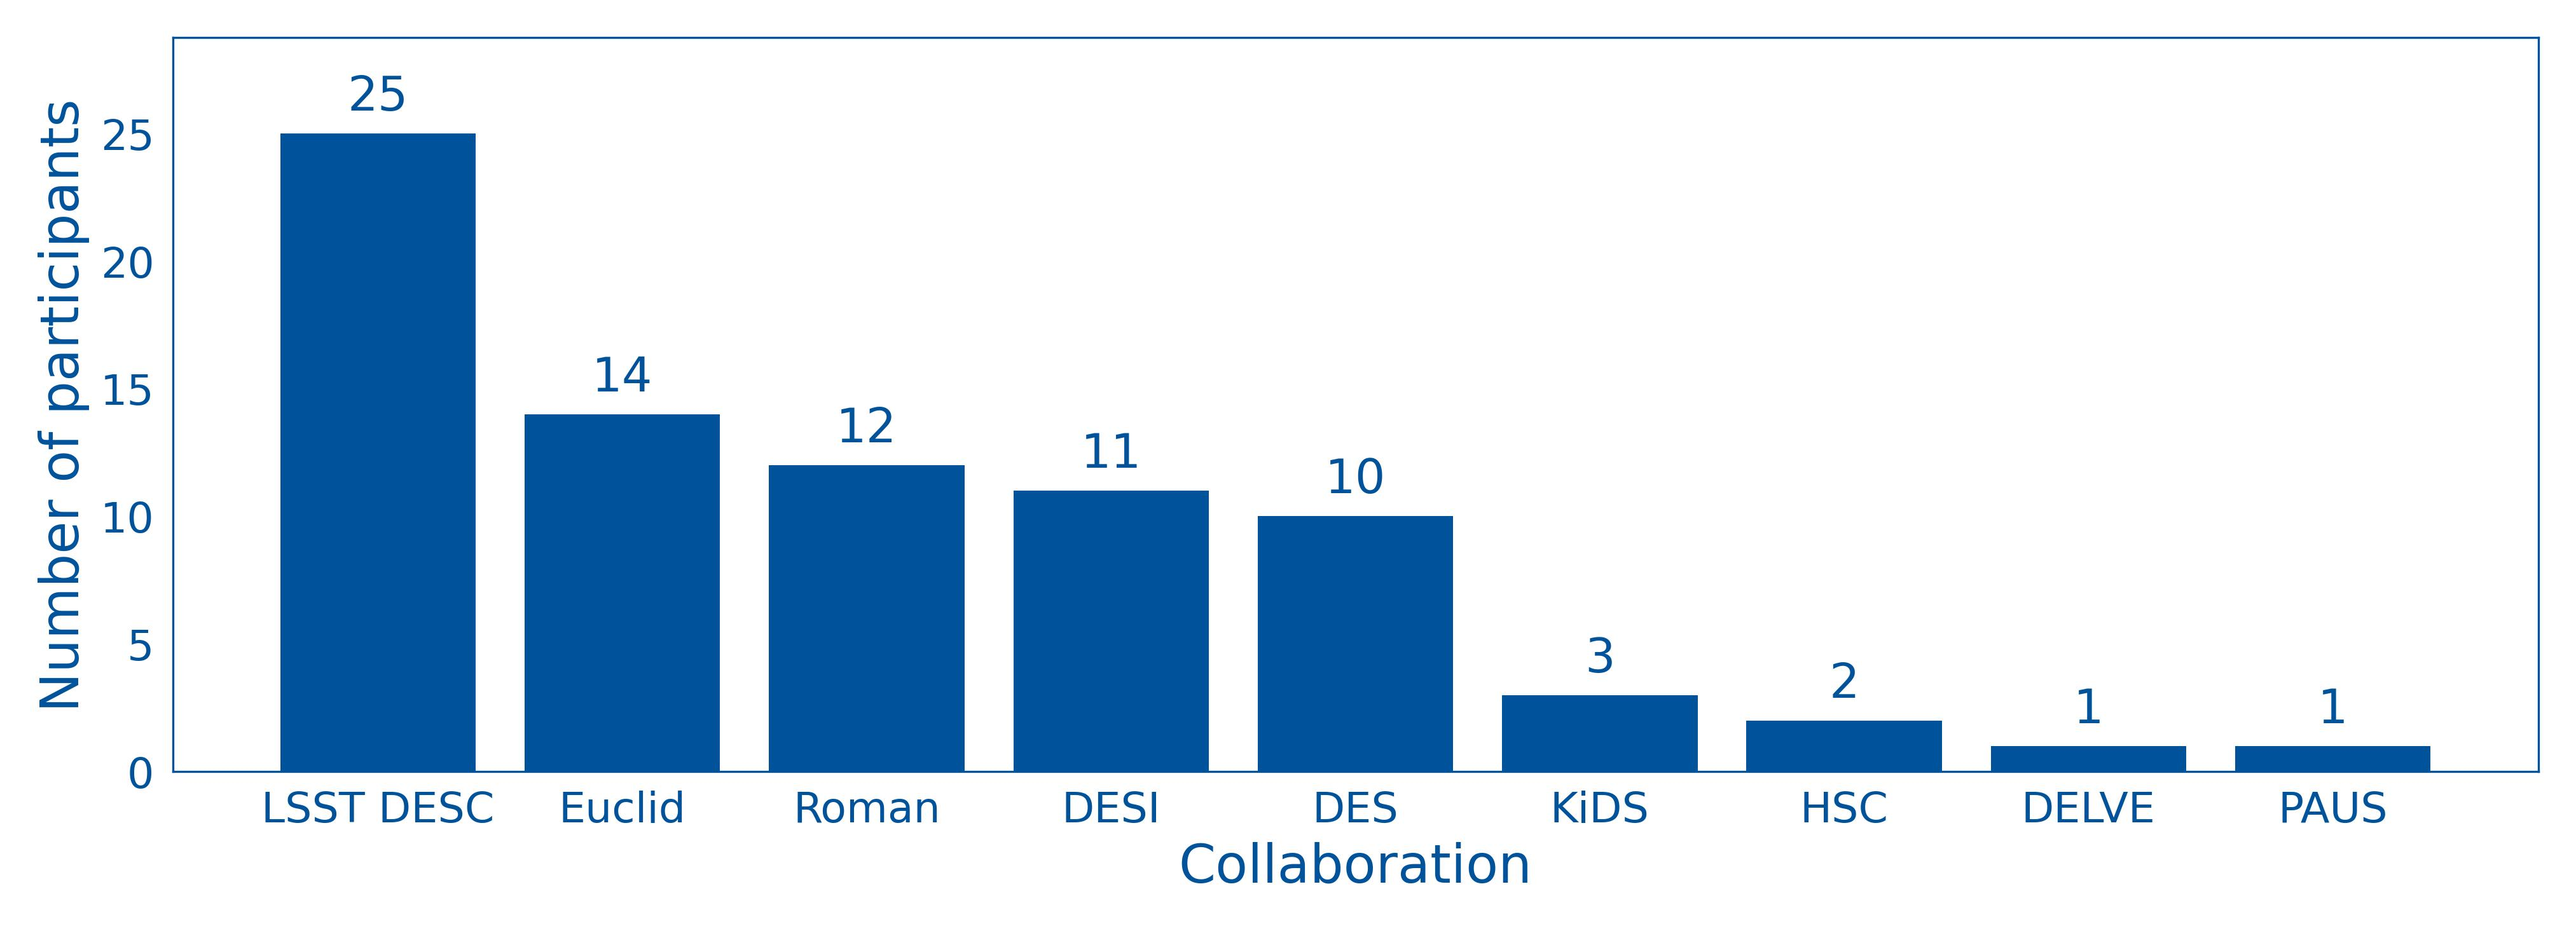
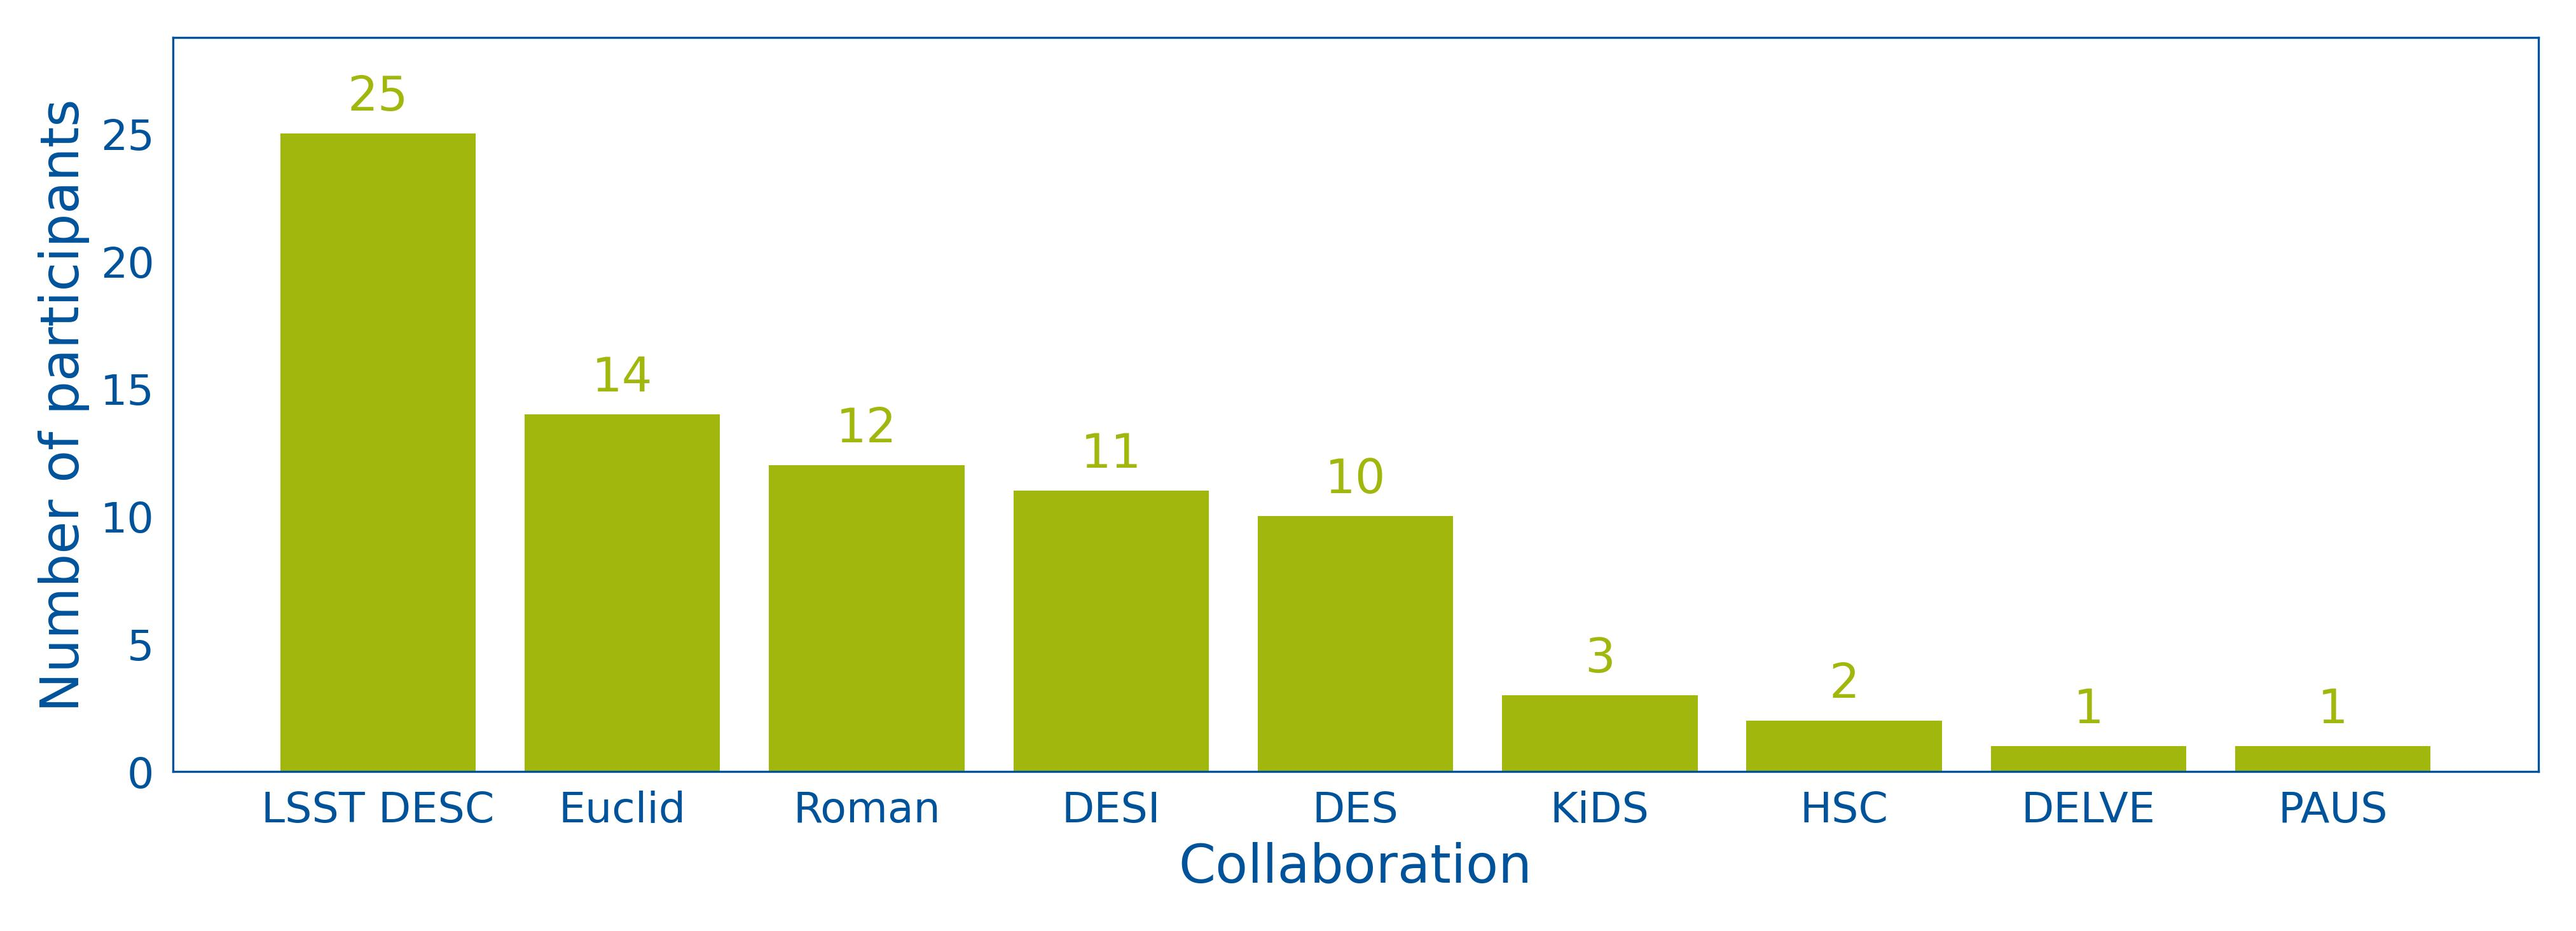
testing table tuning

Changed region(s): [[0.0933, 0.0614, 0.9642, 0.8294], [0.4977, 0.4915, 0.5599, 0.5222], [0.4043, 0.4608, 0.4354, 0.4915]]

diff --git a/docs/_layouts/default.html b/docs/_layouts/default.html
@@ -142,6 +142,38 @@
       border-color: rgba(255,255,255,0.3) !important;
     }
 
+    /* Focus pill in the day header */
+.schedule-focus {
+  font-weight: 600;
+}
+
+/* Make sure *our* colored backgrounds beat theme defaults */
+main#content table.schedule-table.day-observations,
+main#content table.schedule-table.day-theory,
+main#content table.schedule-table.day-sims,
+main#content table.schedule-table.day-hack {
+  background-color: inherit !important; /* allow the class to drive bg */
+}
+
+main#content table.schedule-table.day-observations { background-color: var(--piedmont) !important; }
+main#content table.schedule-table.day-theory       { background-color: var(--duke) !important; }
+main#content table.schedule-table.day-sims         { background-color: var(--persimmon) !important; }
+main#content table.schedule-table.day-hack         { background-color: #993399 !important; }
+
+/* Cells keep white text + transparent cell bg so table bg shows through */
+main#content table.schedule-table.day-observations th,
+main#content table.schedule-table.day-observations td,
+main#content table.schedule-table.day-theory th,
+main#content table.schedule-table.day-theory td,
+main#content table.schedule-table.day-sims th,
+main#content table.schedule-table.day-sims td,
+main#content table.schedule-table.day-hack th,
+main#content table.schedule-table.day-hack td {
+  background-color: transparent !important;
+  color: var(--white) !important;
+  border-color: rgba(255,255,255,0.3) !important;
+}
+
     /* ----- MAIN CONTENT ----- */
     main#content {
       max-width: 900px;

diff --git a/docs/schedule.md b/docs/schedule.md
@@ -28,7 +28,8 @@ All times are in EDT and the in-person location is the Center for Health Educati
 <br>
 
 ---
-<h2 id="monday" class="schedule-day day-observations">Monday</h2>
+
+<h2 id="monday" class="schedule-day day-observations">Monday — <span class="schedule-focus">Focus: Observations</span></h2>
 <table class="schedule-table day-observations">
   <thead>
     <tr>
@@ -40,7 +41,7 @@ All times are in EDT and the in-person location is the Center for Health Educati
   </tbody>
 </table>
 
-<h2 id="tuesday" class="schedule-day day-theory">Tuesday</h2>
+<h2 id="tuesday" class="schedule-day day-theory">Tuesday — <span class="schedule-focus">Focus: Modeling</span></h2>
 <table class="schedule-table day-theory">
   <thead>
     <tr>
@@ -52,7 +53,7 @@ All times are in EDT and the in-person location is the Center for Health Educati
   </tbody>
 </table>
 
-<h2 id="wednesday" class="schedule-day day-sims">Wednesday</h2>
+<h2 id="wednesday" class="schedule-day day-sims">Wednesday — <span class="schedule-focus">Focus: Simulations</span></h2>
 <table class="schedule-table day-sims">
   <thead>
     <tr>
@@ -64,7 +65,7 @@ All times are in EDT and the in-person location is the Center for Health Educati
   </tbody>
 </table>
 
-<h2 id="thursday" class="schedule-day day-hack">Thursday</h2>
+<h2 id="thursday" class="schedule-day day-hack">Thursday — <span class="schedule-focus">Focus: Hack Day</span></h2>
 <table class="schedule-table day-hack">
   <thead>
     <tr>
@@ -76,7 +77,7 @@ All times are in EDT and the in-person location is the Center for Health Educati
   </tbody>
 </table>
 
-<h2 id="friday" class="schedule-day day-hack">Friday</h2>
+<h2 id="friday" class="schedule-day day-hack">Friday — <span class="schedule-focus">Focus: Hack Day</span></h2>
 <table class="schedule-table day-hack">
   <thead>
     <tr>
